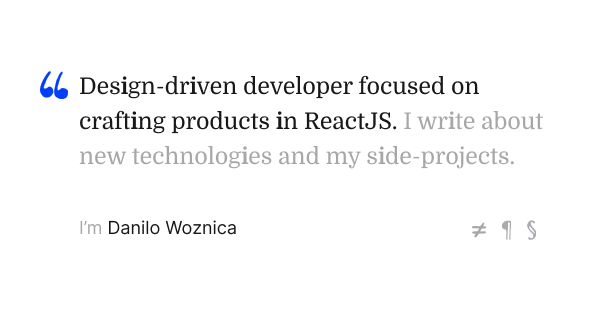
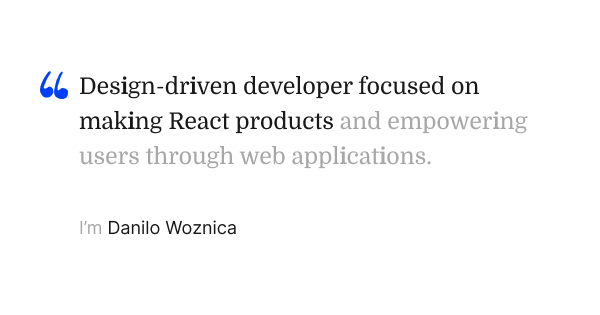
hero

diff --git a/src/content.ts b/src/content.ts
@@ -1,11 +1,10 @@
 export default {
   seo: {
     site: "Danilo Woznica - Design-driven developer",
-    description:
-      "Design-driven developer focused on crafting products in ReactJS.",
+    description: "Design-driven developer focused on making React products.",
   },
   hero: {
-    title: "Design-driven developer focused on crafting products in ReactJS.",
-    headline: "I write about new technologies and my side-projects",
+    title: "Design-driven developer focused on making React products",
+    headline: "and empowering users through web applications.",
   },
 };
